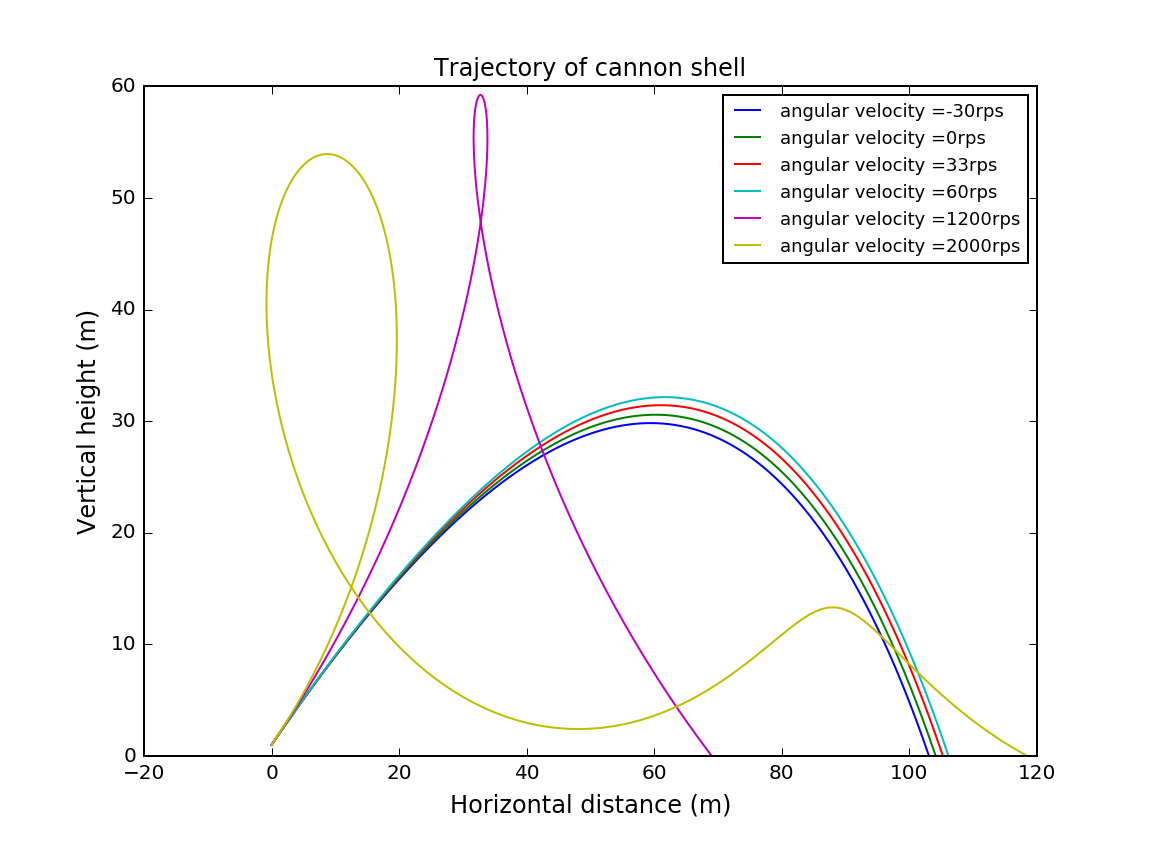
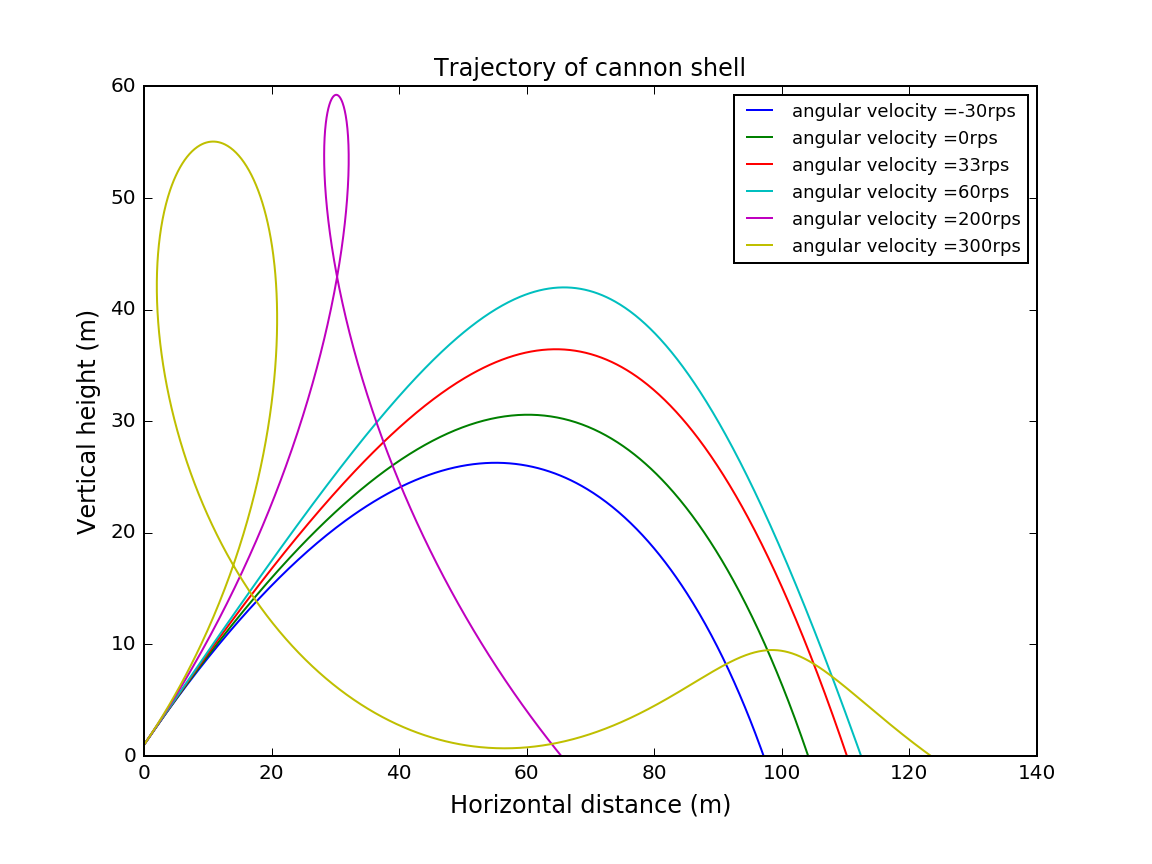
bug fix

diff --git a/Exercise/Chapter 2/chapter2_2.19.py b/Exercise/Chapter 2/chapter2_2.19.py
@@ -21,7 +21,8 @@ class baseball_normal:
         self.dt = 0.01
         self.v = v*0.44704
         self.theta = theta
-        self.w = w
+        self.w = w*2*np.pi
+
         
     def calculate(self):
         vx = []
@@ -89,6 +90,9 @@ class baseball_normal:
     
 class baseball_fullspin(baseball_normal):
     def calculate(self, w_x, w_y, w_z):
+        w_x = w_x * 2 * np.pi
+        w_y = w_y * 2 * np.pi
+        w_z = w_z * 2 * np.pi
         vx = []
         vy = []
         vz = []
@@ -226,10 +230,10 @@ class baseball_wind(baseball_normal):
         return self.x, self.y, self.z
         
 
-''''fig = plt.figure(figsize = (8,6))
+fig = plt.figure(figsize = (8,6))
 plt.title('Trajectory of cannon shell')
 plt.xlabel('Horizontal distance (m)', fontsize = 12)
-plt.ylabel('Vertical height (m)', fontsize = 12)'''
+plt.ylabel('Vertical height (m)', fontsize = 12)
 ## ---------------- full spin ---------------------
 '''A = baseball_fullspin(100,40,33,1,0,0,0,0)
 record_fullspin = A.calculate(0,0,33)
@@ -270,13 +274,13 @@ for degree in range(8):
     plt.plot(record_normal[0], record_normal[1], label = 'angle ='+str(data_w[degree])+'degree')
     degree-=1'''
 ## ---------------- different angular velocity ----------------------
-'''data_w = [-30,0,33,60,1200,2000]
+'''data_w = [-30,0,33,60,200,300]
 for degree in range(6):
     A = baseball_normal(100,40,data_w[degree],1,0,0,0,0)
     record_normal = A.calculate()
     plt.plot(record_normal[0], record_normal[1], label = 'angular velocity ='+str(data_w[degree])+'rps')
-    degree-=1'''
-
+    degree-=1
+'''
 ## --------- find the furthest distance-----------------
 '''distance = []
 w_record = []
@@ -313,6 +317,7 @@ plt.title('Trajectory of cannon shell (No spin)')
 plt.xlabel('Horizontal distance (m)', fontsize = 12)
 plt.ylabel('Vertical height (m)', fontsize = 12)
 plt.ylim(0,40)
+plt.xlim(0,140)
 A = baseball_wind(100,40,0,1,0,0,0,0)
 record_wind = A.calculate(4.47,0)
 plt.plot(record_wind[0], record_wind[1],'-.',linewidth = 3, label = 'No spin: tailwind')
@@ -322,7 +327,7 @@ record_wind = A.calculate(-4.47,0)
 plt.plot(record_wind[0], record_wind[1],'-.',linewidth = 3, label = 'No spin: headwind')'''
 ##-------------------------------------------------------
 '''plt.legend(loc = 'upper right', fontsize = 9)
-plt.savefig('chapter2.19.png', dpi = 144)'''
+plt.savefig('chapter2.19_ball.png', dpi = 144)'''
 ## -------------- argprase ------------------------------
 parser = argparse.ArgumentParser()
 parser.add_argument("velocity", type = float, help= "display a square of a given number")
